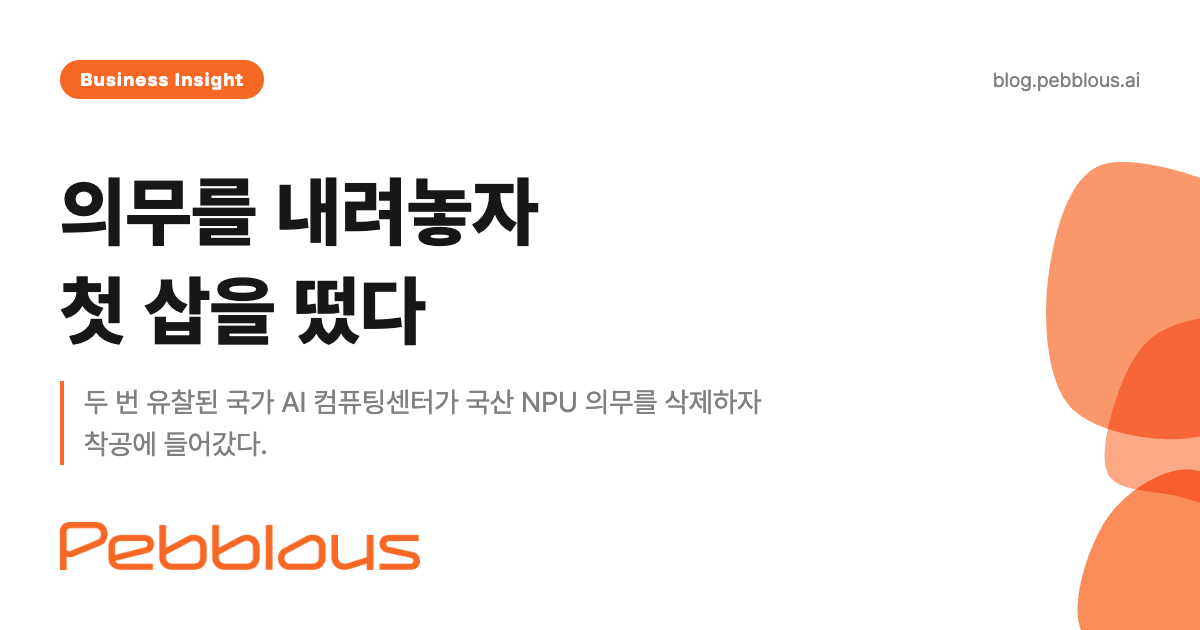
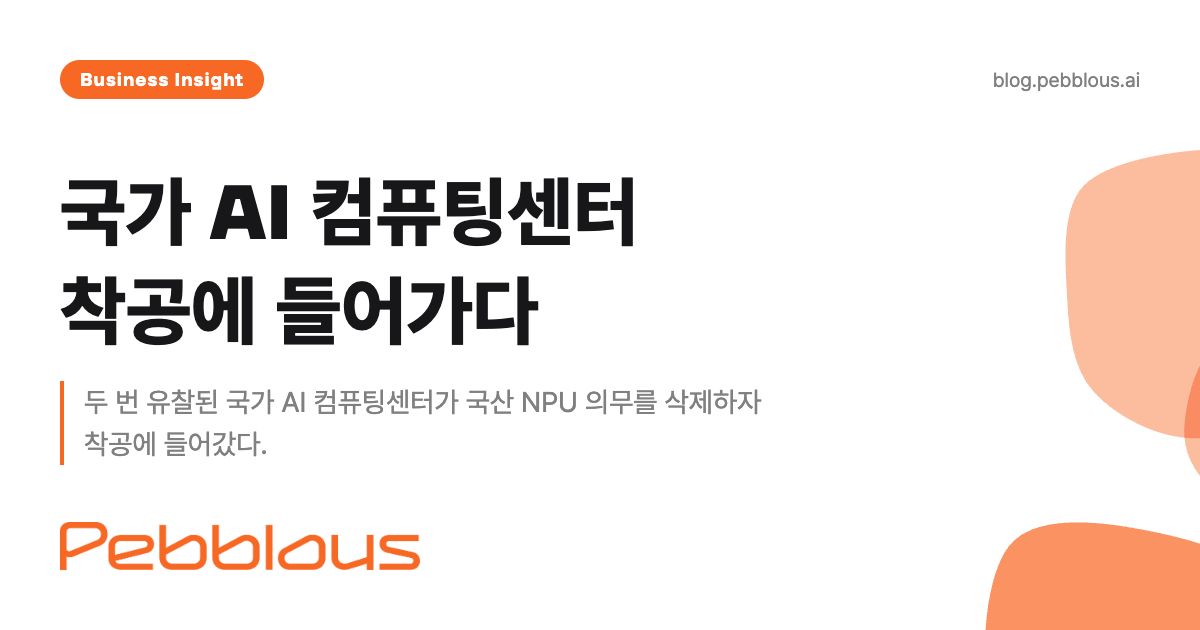
chore(titles): 제목·메타 일괄 교정 1건/3필드 (제목 검토 콘솔)\n\n- korea-ai-compute-center-npu-2026-07-ko:\n    제목: 의무를 내려놓자 첫 삽을 떴다 → 국가 AI 컴퓨팅센터 착공에 들어가다\n    부제목: 국가 AI 컴퓨팅센터가 국산 NPU 의무를 R&D·NPUaaS 자발 도입으로 바꾼 뒤, 의무가 사라진 자리에 남은 진짜 검증 대상 → 국산 NPU 의무를 자발 도입으로 바꾼 뒤의 인프라 성능 기준은 무엇이 될까\n    OG 이미지 제목: (없음) → 국가 AI 컴퓨팅센

Changed region(s): [[0.8017, 0.2413, 1.0, 1.0], [0.0308, 0.2714, 0.555, 0.3921], [0.0617, 0.4222, 0.4625, 0.573]]

diff --git a/report/korea-ai-compute-center-npu-2026-07/ko/index.html b/report/korea-ai-compute-center-npu-2026-07/ko/index.html
@@ -10,7 +10,8 @@
     <meta name="robots" content="index, follow">
     <meta name="revisit-after" content="7 days">
 
-    <title>국가 AI 컴퓨팅센터, 국산 NPU 의무를 내려놓다 — 소버린 AI의 검증 문제 | 페블러스</title>
+    <title>국가 AI 컴퓨팅센터 착공에 들어가다 | 페블러스</title>
+    <meta name="og-image-title" content="국가 AI 컴퓨팅센터 착공에 들어가다">
     <meta name="description" content="두 번 유찰된 국가 AI 컴퓨팅센터가 국산 NPU 의무 조항을 삭제한 뒤 2026년 3분기 착공에 들어갔습니다. '의무에서 자발로' 바뀐 정책 설계가 무엇을 사고 무엇을 포기했는지, 그리고 강제가 사라진 자리에 남은 진짜 검증 문제를 데이터 품질 관점에서 해부합니다.">
     <meta name="keywords" content="소버린 AI, 국가 AI 컴퓨팅센터, 국산 NPU, AI 인프라 정책, 데이터 품질, AI 반도체, NPUaaS, 컴퓨트 주권, 퓨리오사AI, 리벨리온, 삼성SDS, MLPerf, 벤치마크, 검증 데이터, 솔라시도">
 
@@ -20,7 +21,7 @@
     <link rel="alternate" hreflang="x-default" href="https://blog.pebblous.ai/report/korea-ai-compute-center-npu-2026-07/ko/">
 
     <!-- Open Graph -->
-    <meta property="og:title" content="의무를 내려놓자 첫 삽을 떴다">
+    <meta property="og:title" content="국가 AI 컴퓨팅센터 착공에 들어가다">
     <meta property="og:description" content="두 번 유찰된 국가 AI 컴퓨팅센터가 국산 NPU 의무를 삭제하자 착공에 들어갔다. '의무에서 자발로' 바뀐 정책 설계가 산 것과 포기한 것, 그리고 그 자리에 남은 진짜 검증 문제.">
     <meta property="og:type" content="article">
     <meta property="og:url" content="https://blog.pebblous.ai/report/korea-ai-compute-center-npu-2026-07/ko/">
@@ -35,7 +36,7 @@
     <meta name="twitter:card" content="summary_large_image">
     <meta name="twitter:site" content="@pebblous_official">
     <meta name="twitter:creator" content="@pebblous_official">
-    <meta name="twitter:title" content="의무를 내려놓자 첫 삽을 떴다">
+    <meta name="twitter:title" content="국가 AI 컴퓨팅센터 착공에 들어가다">
     <meta name="twitter:description" content="국가 AI 컴퓨팅센터가 국산 NPU 의무를 자발 도입으로 바꾼 뒤 착공했다. 의무가 사라진 자리에 남은 진짜 검증 문제를 분석합니다.">
     <meta name="twitter:image" content="https://blog.pebblous.ai/report/korea-ai-compute-center-npu-2026-07/ko/image/index.png">
     <meta name="twitter:image:alt" content="의무를 내려놓자 첫 삽을 떴다 — 국가 AI 컴퓨팅센터와 국산 NPU 의무 폐지">
@@ -767,9 +768,9 @@
               },
               "recordedAt": "2026-07-24T18:14:50.143Z"
             },
-            mainTitle: "의무를 내려놓자 첫 삽을 떴다",
-            subtitle: "국가 AI 컴퓨팅센터가 국산 NPU 의무를 R&D·NPUaaS 자발 도입으로 바꾼 뒤, 의무가 사라진 자리에 남은 진짜 검증 대상",
-            pageTitle: "국가 AI 컴퓨팅센터, 국산 NPU 의무를 내려놓다 — 소버린 AI의 검증 문제 | 페블러스",
+            mainTitle: "국가 AI 컴퓨팅센터 착공에 들어가다",
+            subtitle: "국산 NPU 의무를 자발 도입으로 바꾼 뒤의 인프라 성능 기준은 무엇이 될까",
+            pageTitle: "국가 AI 컴퓨팅센터 착공에 들어가다 | 페블러스",
             category: "business",
             publishDate: "2026-07-25",
             publisher: "(주)페블러스 데이터 커뮤니케이션팀",
